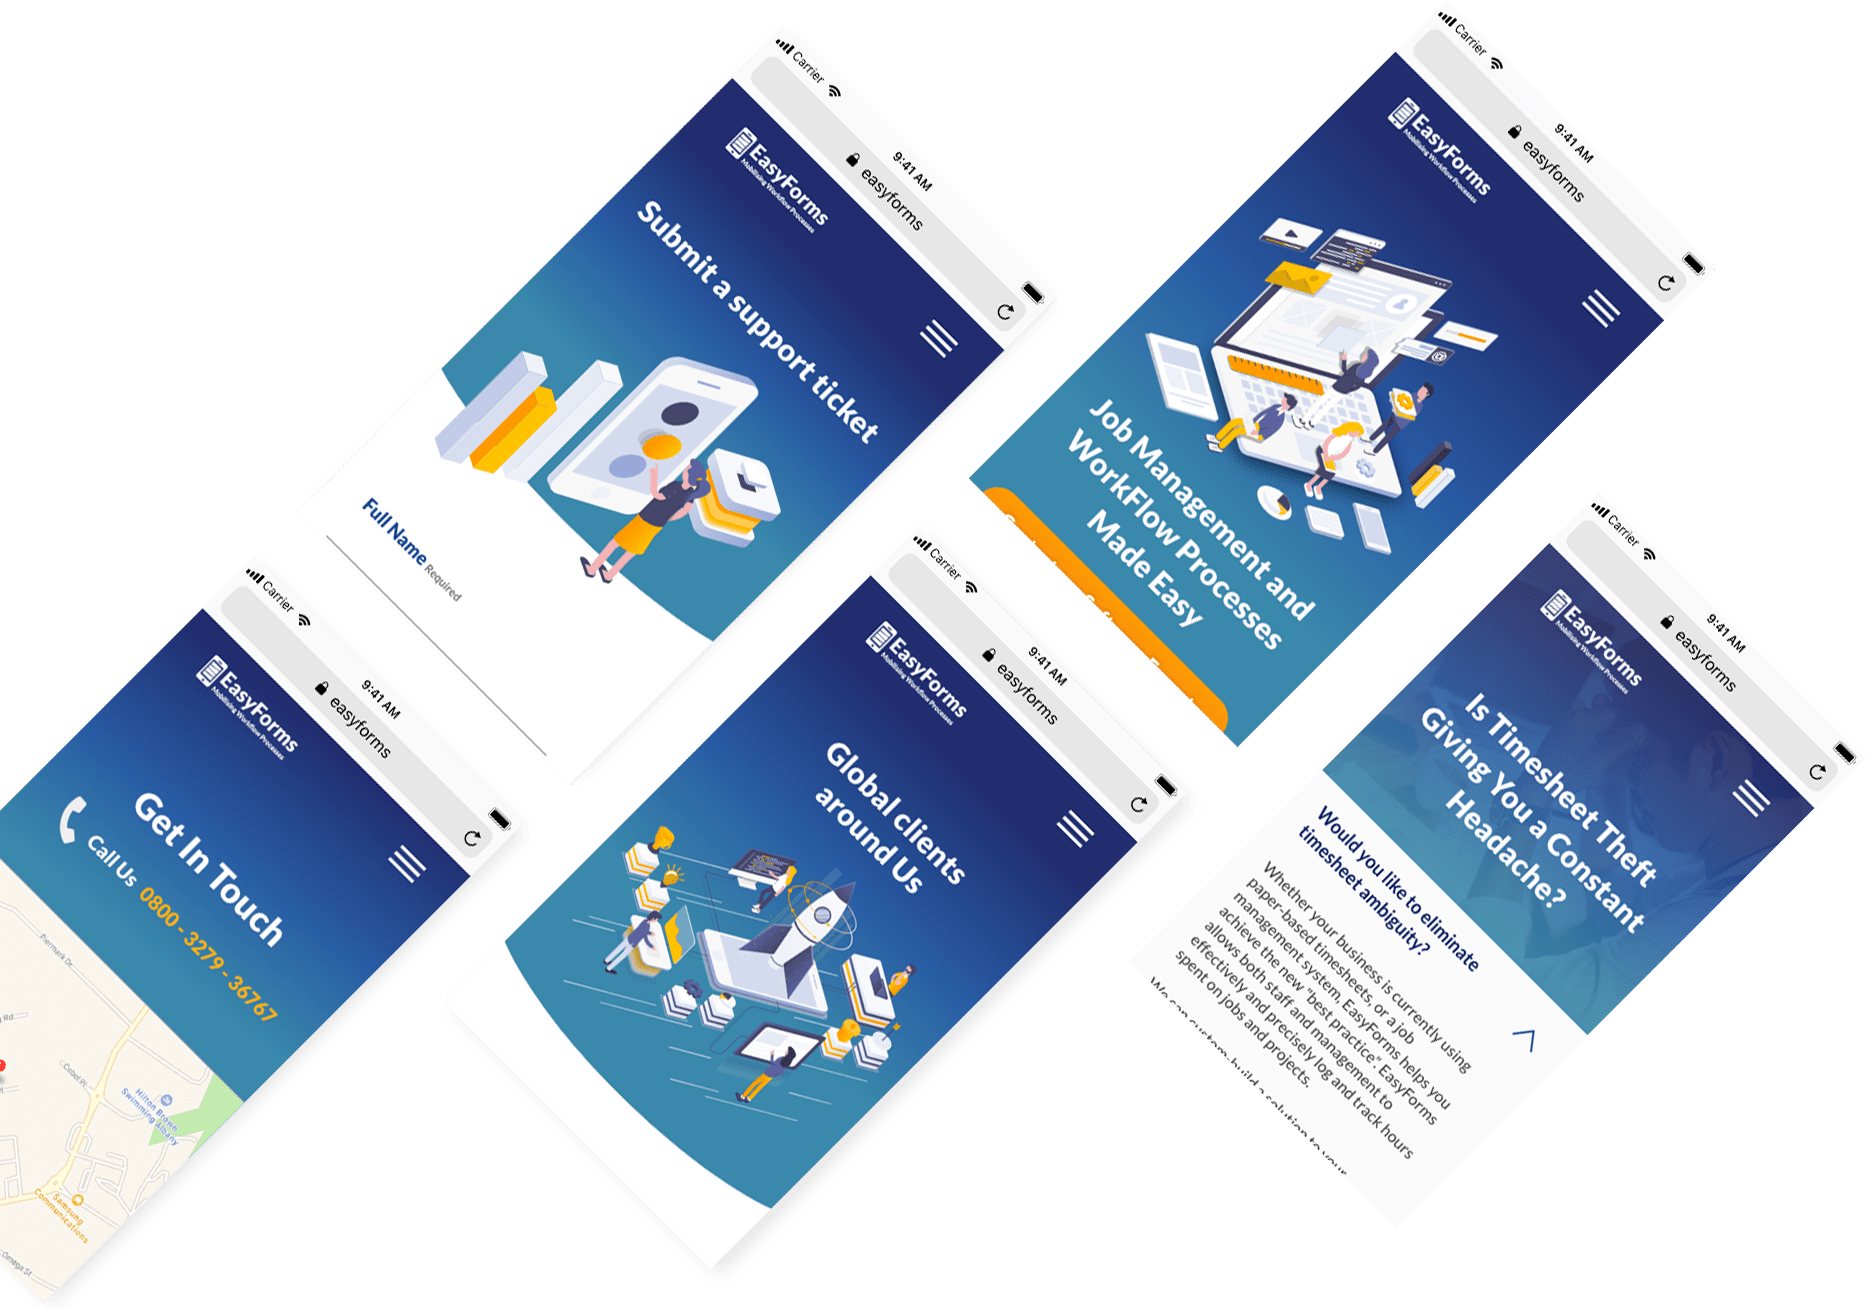
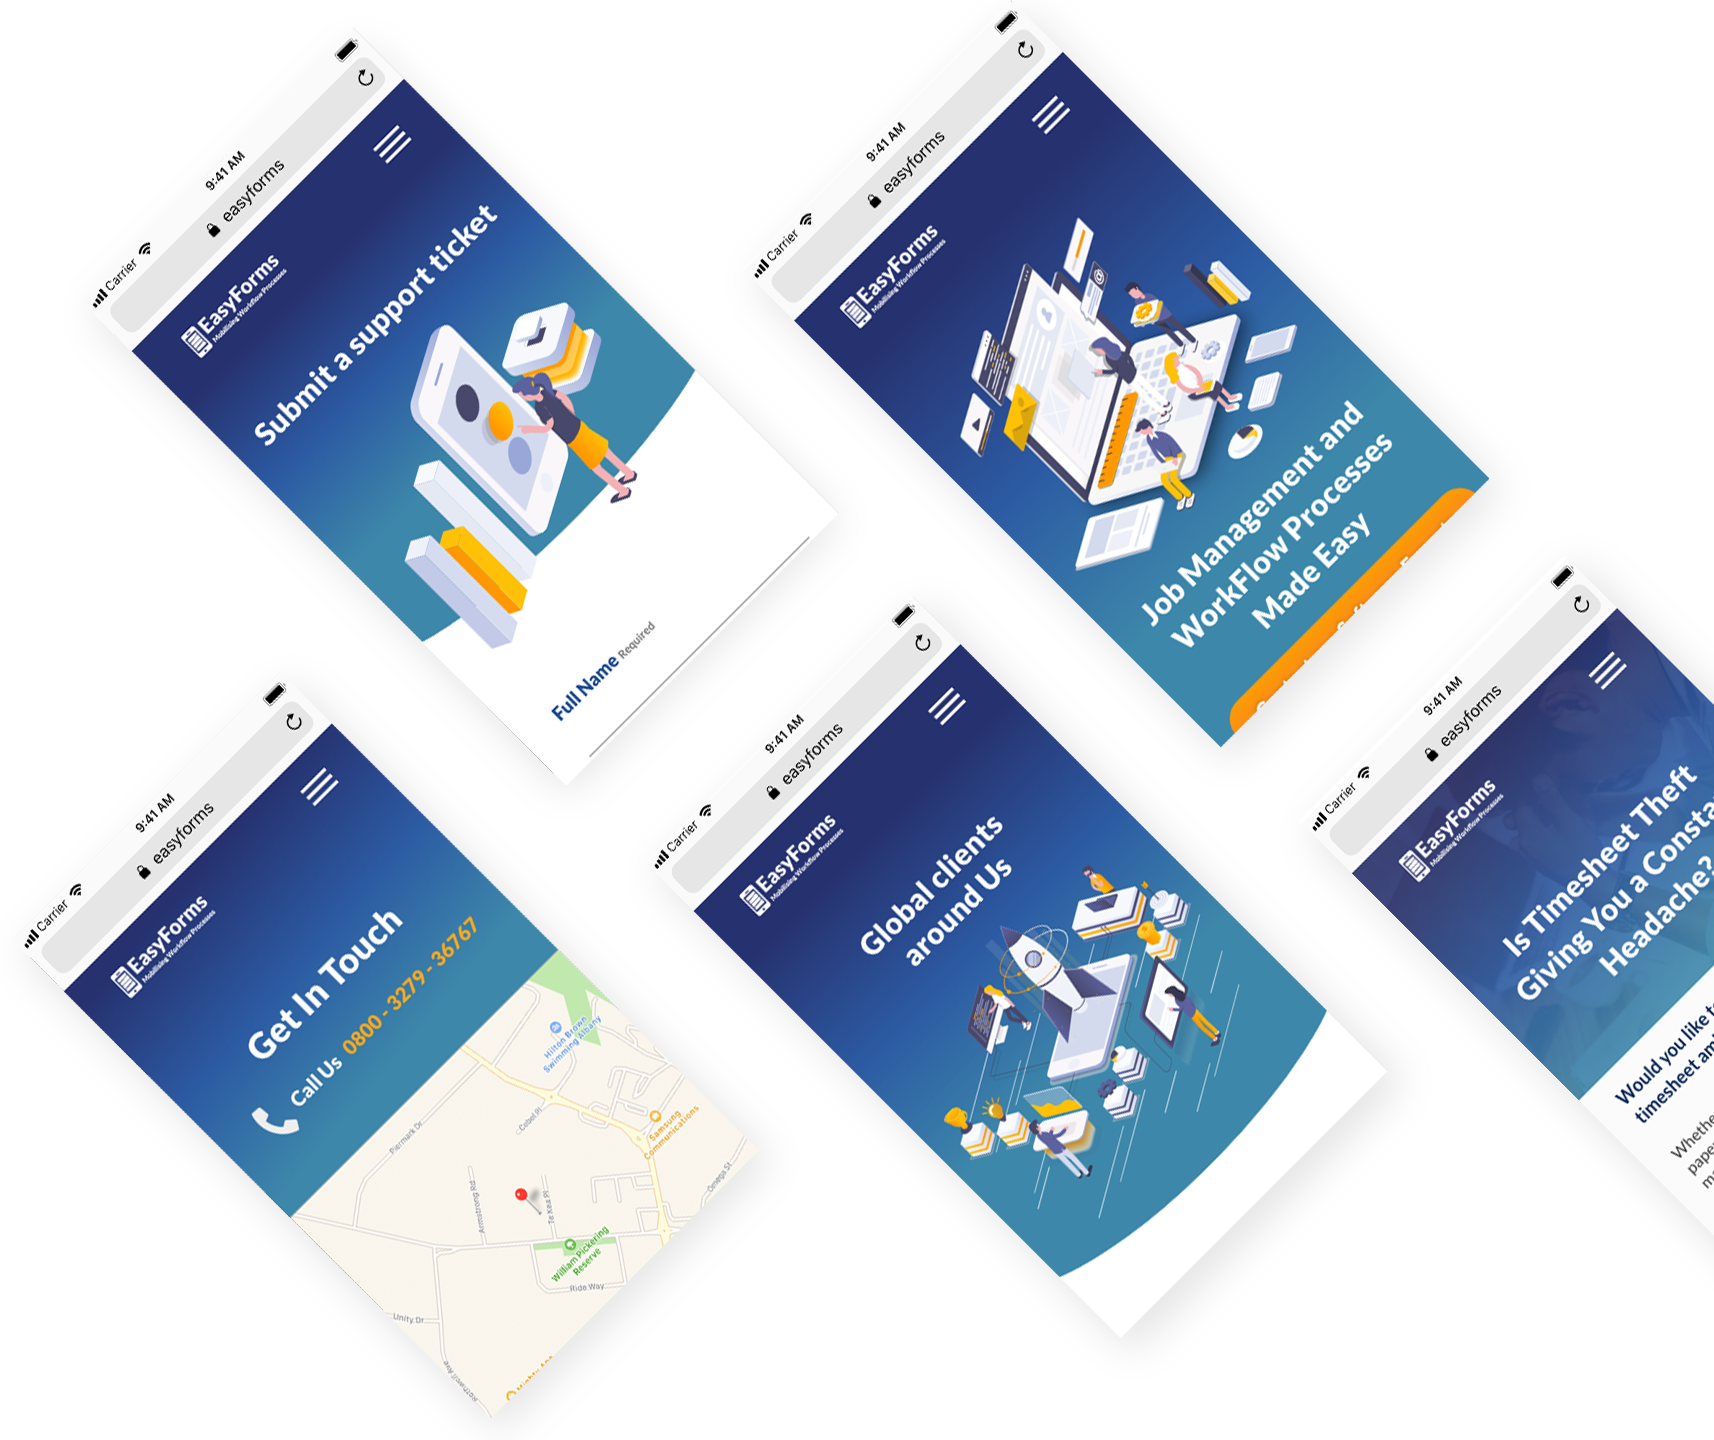
Easyforms - layout updated

diff --git a/src/pages/Portfolio/pages/Easyforms/Easyforms.js b/src/pages/Portfolio/pages/Easyforms/Easyforms.js
@@ -23,7 +23,7 @@ export default class Easyforms extends Component {
             <Link to="/portfolio">
               <h1>Work</h1>
             </Link>
-            <h2>A Website redesign for Easyforms</h2>
+            <h2>A website redesign for Easyforms</h2>
             <LazyLoadImage
               alt="Easyforms website redesign"
               effect="blur"
@@ -52,7 +52,7 @@ export default class Easyforms extends Component {
               <p>
                 I participated in a website redesign project for Easyforms,
                 Auckland as an one-off volunteer role. My approach focussed on
-                creating trendy UI design and improving usability, by reducing
+                creating a trendy UI design and improving usability, by reducing
                 verbiage. This project was my first web design work with an
                 outside client. Looking back, this project was a valuable
                 learning experience that greatly developed my creative and
@@ -66,14 +66,14 @@ export default class Easyforms extends Component {
             Additionally, I selected new graphics and design elements that would improve click-through and retention rates. 
             My ultimate goal was to improve this website's accessibility, engagement and visual appeal."
             bgVideo={Video}
-            imgPosition="right"
+            imgPosition="left"
           />
           <Description
             title="Responsive Design for Mobile"
             paragraph="In addition to the above work, I designed the mobile user experience for this website. 
             Here, I focussed on adaptability and ease of use."
             bgImage={EasyformsResponsive}
-            imgPosition="left"
+            imgPosition="right"
           />
         </div>
         <GoToPortfolio />

diff --git a/src/stylesheets/2-abstracts/_mixins.scss b/src/stylesheets/2-abstracts/_mixins.scss
@@ -1,26 +1,30 @@
 @mixin container-maxwidth() {
-    max-width: 960px;
-    margin: 0 auto;
+  max-width: 960px;
+  margin: 0 auto;
 
-    @media #{$break-lg} {
-        max-width: 1140px;
-    }
+  @media #{$break-lg} {
+    max-width: 1140px;
+  }
 }
 
 @mixin flex-center($direction: row) {
-    display: flex;
-    align-items: center;
-    justify-content: center;
-    flex-direction: $direction;
+  display: flex;
+  align-items: center;
+  justify-content: center;
+  flex-direction: $direction;
 }
 
 @mixin flex-center-justify($direction: row) {
-    display: flex;
-    align-items: center;
-    justify-content: space-between;
-    flex-direction: $direction;
+  display: flex;
+  align-items: center;
+  justify-content: space-between;
+  flex-direction: $direction;
+}
+
+@mixin smallShadow() {
+  box-shadow: 6px 6px 18px rgba(0, 0, 0, 0.16);
 }
 
 @mixin bigShadow() {
-    box-shadow: 6px 10px 28px rgba(0, 0, 0, 0.2);
+  box-shadow: 6px 10px 28px rgba(0, 0, 0, 0.2);
 }

diff --git a/src/pages/Portfolio/pages/WCB/WCB.js b/src/pages/Portfolio/pages/WCB/WCB.js
@@ -66,9 +66,9 @@ export default class WCB extends Component {
               </div>
               <p>
                 In 2019 I worked for WhiteCollarBlue, an HR company based in
-                Sydney, Australia. In this role, I participated in front-end
-                development projects and UX/UI Design. This job was done
-                remotely, involving regular communication and conferencing.
+                Sydney, Australia. In this role, I participated in UX/UI Design
+                and front-end development. This job was done remotely, involving
+                regular communication and conferencing.
               </p>
             </div>
           </Fade>

diff --git a/src/pages/Portfolio/components/Description.module.scss b/src/pages/Portfolio/components/Description.module.scss
@@ -27,7 +27,7 @@
   @media #{$break-md} {
     display: grid;
     grid-template-columns: 1fr 1fr;
-    column-gap: 2rem;
+    column-gap: 3rem;
     text-align: left;
 
     h3 {
@@ -71,8 +71,9 @@
   }
 
   .video {
-    @include bigShadow();
+    @include smallShadow();
     border-radius: 4px;
+    object-fit: contain;
   }
 
   .imgLeft {
@@ -109,4 +110,21 @@
   margin: 0 auto;
   @include bigMargin();
   margin-bottom: 80px;
+
+  h3 {
+    margin-top: 0;
+    margin-bottom: 1.5rem;
+  }
+
+  @media #{$break-md} {
+    text-align: left;
+
+    h3 {
+      margin-bottom: 1rem;
+    }
+
+    p {
+      margin-top: 0;
+    }
+  }
 }

diff --git a/src/stylesheets/1-base/_common.scss b/src/stylesheets/1-base/_common.scss
@@ -55,7 +55,7 @@ h6 {
 
 h3 {
   font-size: 1.875rem;
-  font-weight: normal;
+  //font-weight: 600 !important;
 }
 
 p {
